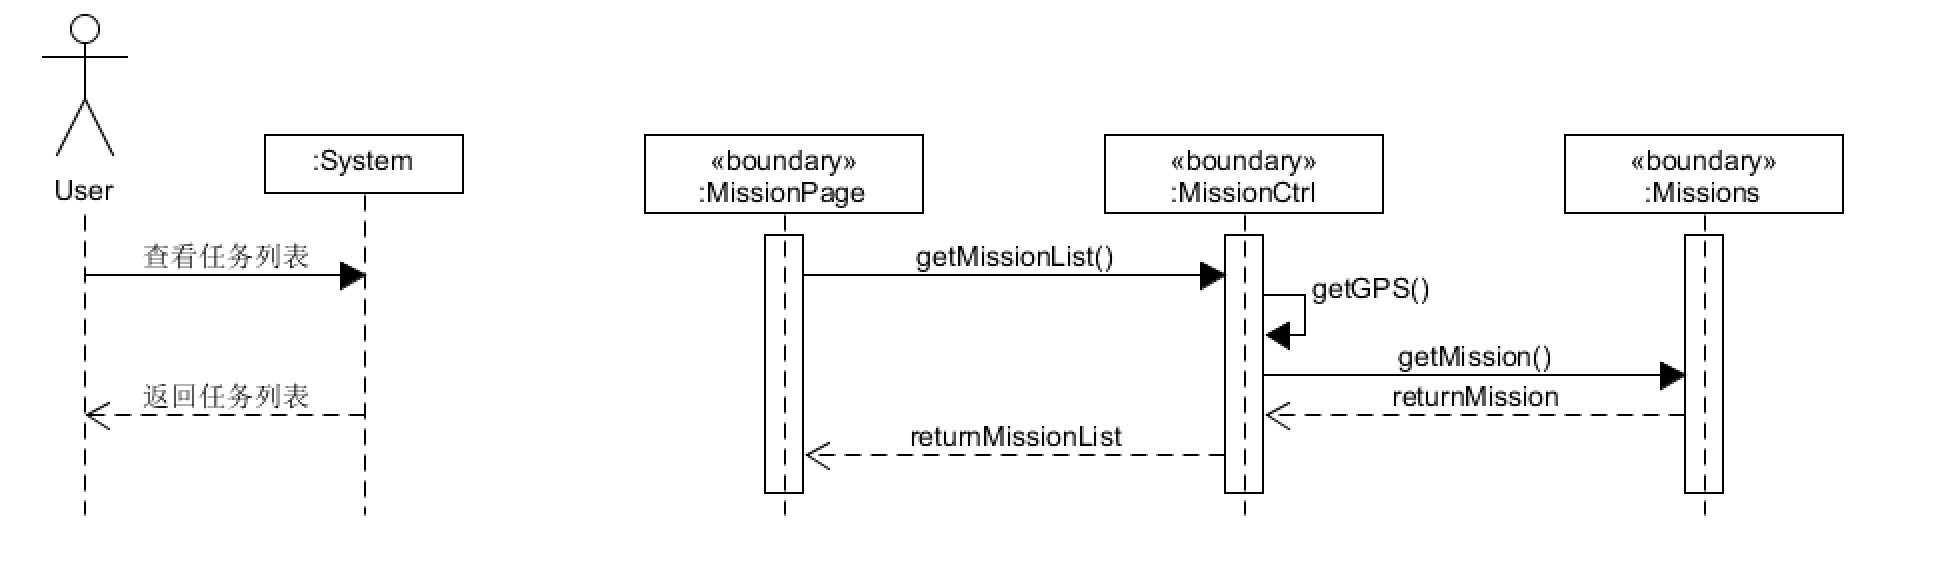
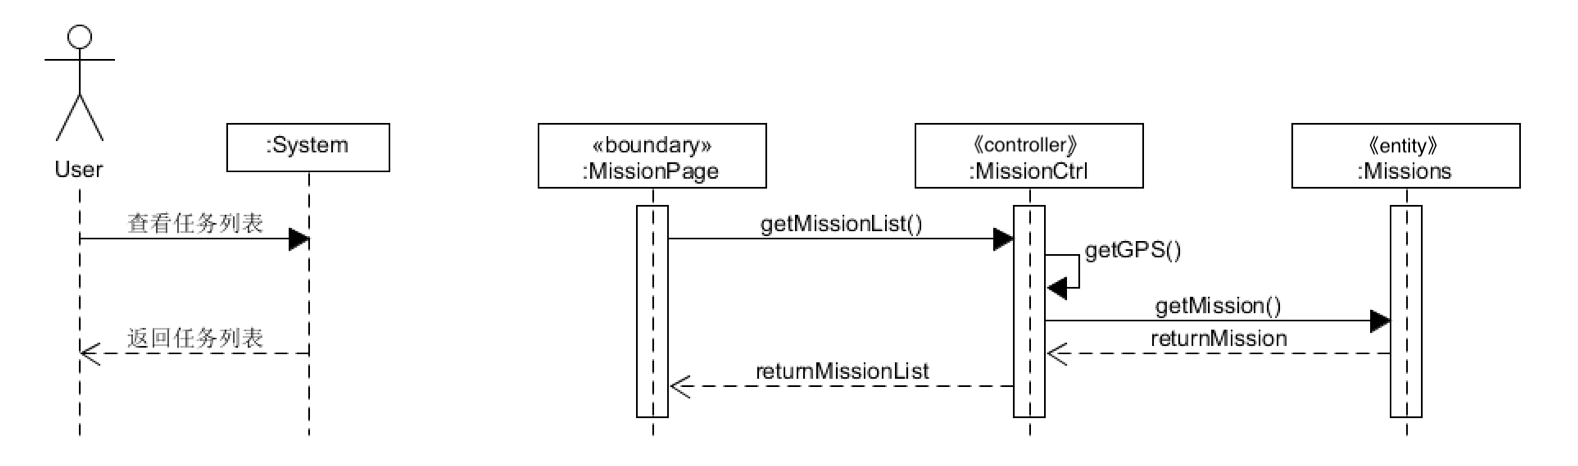
update

diff --git a/06-05-System-Sequence-Diagram.md b/06-05-System-Sequence-Diagram.md
@@ -1,19 +1,22 @@
 # System Sequence Diagram （功能模型）
 
-根据我们的[用例分析](https://teamwego.github.io/dashboard/06-02-use-cases.html)中的活动图可以看到，用户的大体使用过程是通过用户在任务页面寻找任务，完成任务后在界面上确认。
+根据我们的[用例分析](https://teamwego.github.io/dashboard/06-02-use-cases.html)中的用例图可以看到，用户的大体使用过程是通过用户首先获取任务列表，然后接受并完成任务。同时，我们也应该支持用户发布任务。
 
 ## 基本功能
 
-1. 用户寻找任务
+1. 用户获取任务列表
 2. 用户完成任务
+3. 用户发布任务
 
-用户首先进入任务界面，通过根据GPS获取用户当前的定位，然后获得任务信息。
+* 用户首先进入任务界面，通过根据GPS定位用户地理位置，匹配附近的任务信息并返回。
 
-在用户完成任务之后，像服务端发送成功完成的消息，将任务标记成已完成并删除，并且返回结果用于前端显示。
+* 在用户完成任务之后，像服务端发送成功完成的消息，将任务标记成已完成并删除，并且返回结果用于前端显示。
+
+* 用户进入到任务界面下，填写任务信息创建任务，提交后端，后端返回结果用于前端显示。
 
 ## 系统顺序图
 
-### 1. 用户寻找任务
+### 1. 用户获取任务列表
 
 *by 16340264* 
 
@@ -28,6 +31,16 @@
 用户任务后，在任务界面上显示任务成功完成的信息
 
 ![](./images/SSD2.png)
+
+### 3. 用户发布任务
+
+*by 16340264*
+
+用户发布任务，在任务界面上可以显示自己成功发送的任务
+
+![](./images/SSD3.png)
+
+
 
 
 

diff --git a/index.md b/index.md
@@ -14,7 +14,7 @@ layout: default
 * 6、[Requirement specification](06-requirements)（需求规格说明书）
     - 6.1 [Usecase Diagram](06-01-usecase.md)（用例图）
     - 6.2 [Use Cases](06-02-use-cases.md)（用例+活动图）
-    - 6.3 [Domian Models](https://github.com/TeamWeGo/dashboard/blob/gh-pages/images/domain.png?raw=true)（领域模型）
+    - 6.3 [Domian Models](./06-03-domain-model.html)（领域模型）
     - 6.4 [State Models](06-04-state-model.html)（状态模型）
     - 6.5 [System Sequence Diagrams](06-05-System-Sequence-Diagram.html)（功能模型）
     - 6.6 [Supplementary Requirements](06-06-supplementary-requirements.html)（补充需求）

diff --git a/06-04-state-model.md b/06-04-state-model.md
@@ -1,5 +1,6 @@
 # State Model
 
-状态图中描述的对象是领域模型中的 task （任务）对象。
+状态图中描述的对象是领域模型中的<code>任务</code>对象。
 
 ![state_model](images/state_mode.png)
+

diff --git a/06-03-domain-model.md b/06-03-domain-model.md
@@ -1,0 +1,3 @@
+# Domain Model
+
+![state_model](https://raw.githubusercontent.com/TeamWeGo/dashboard/gh-pages/images/domain.png)
